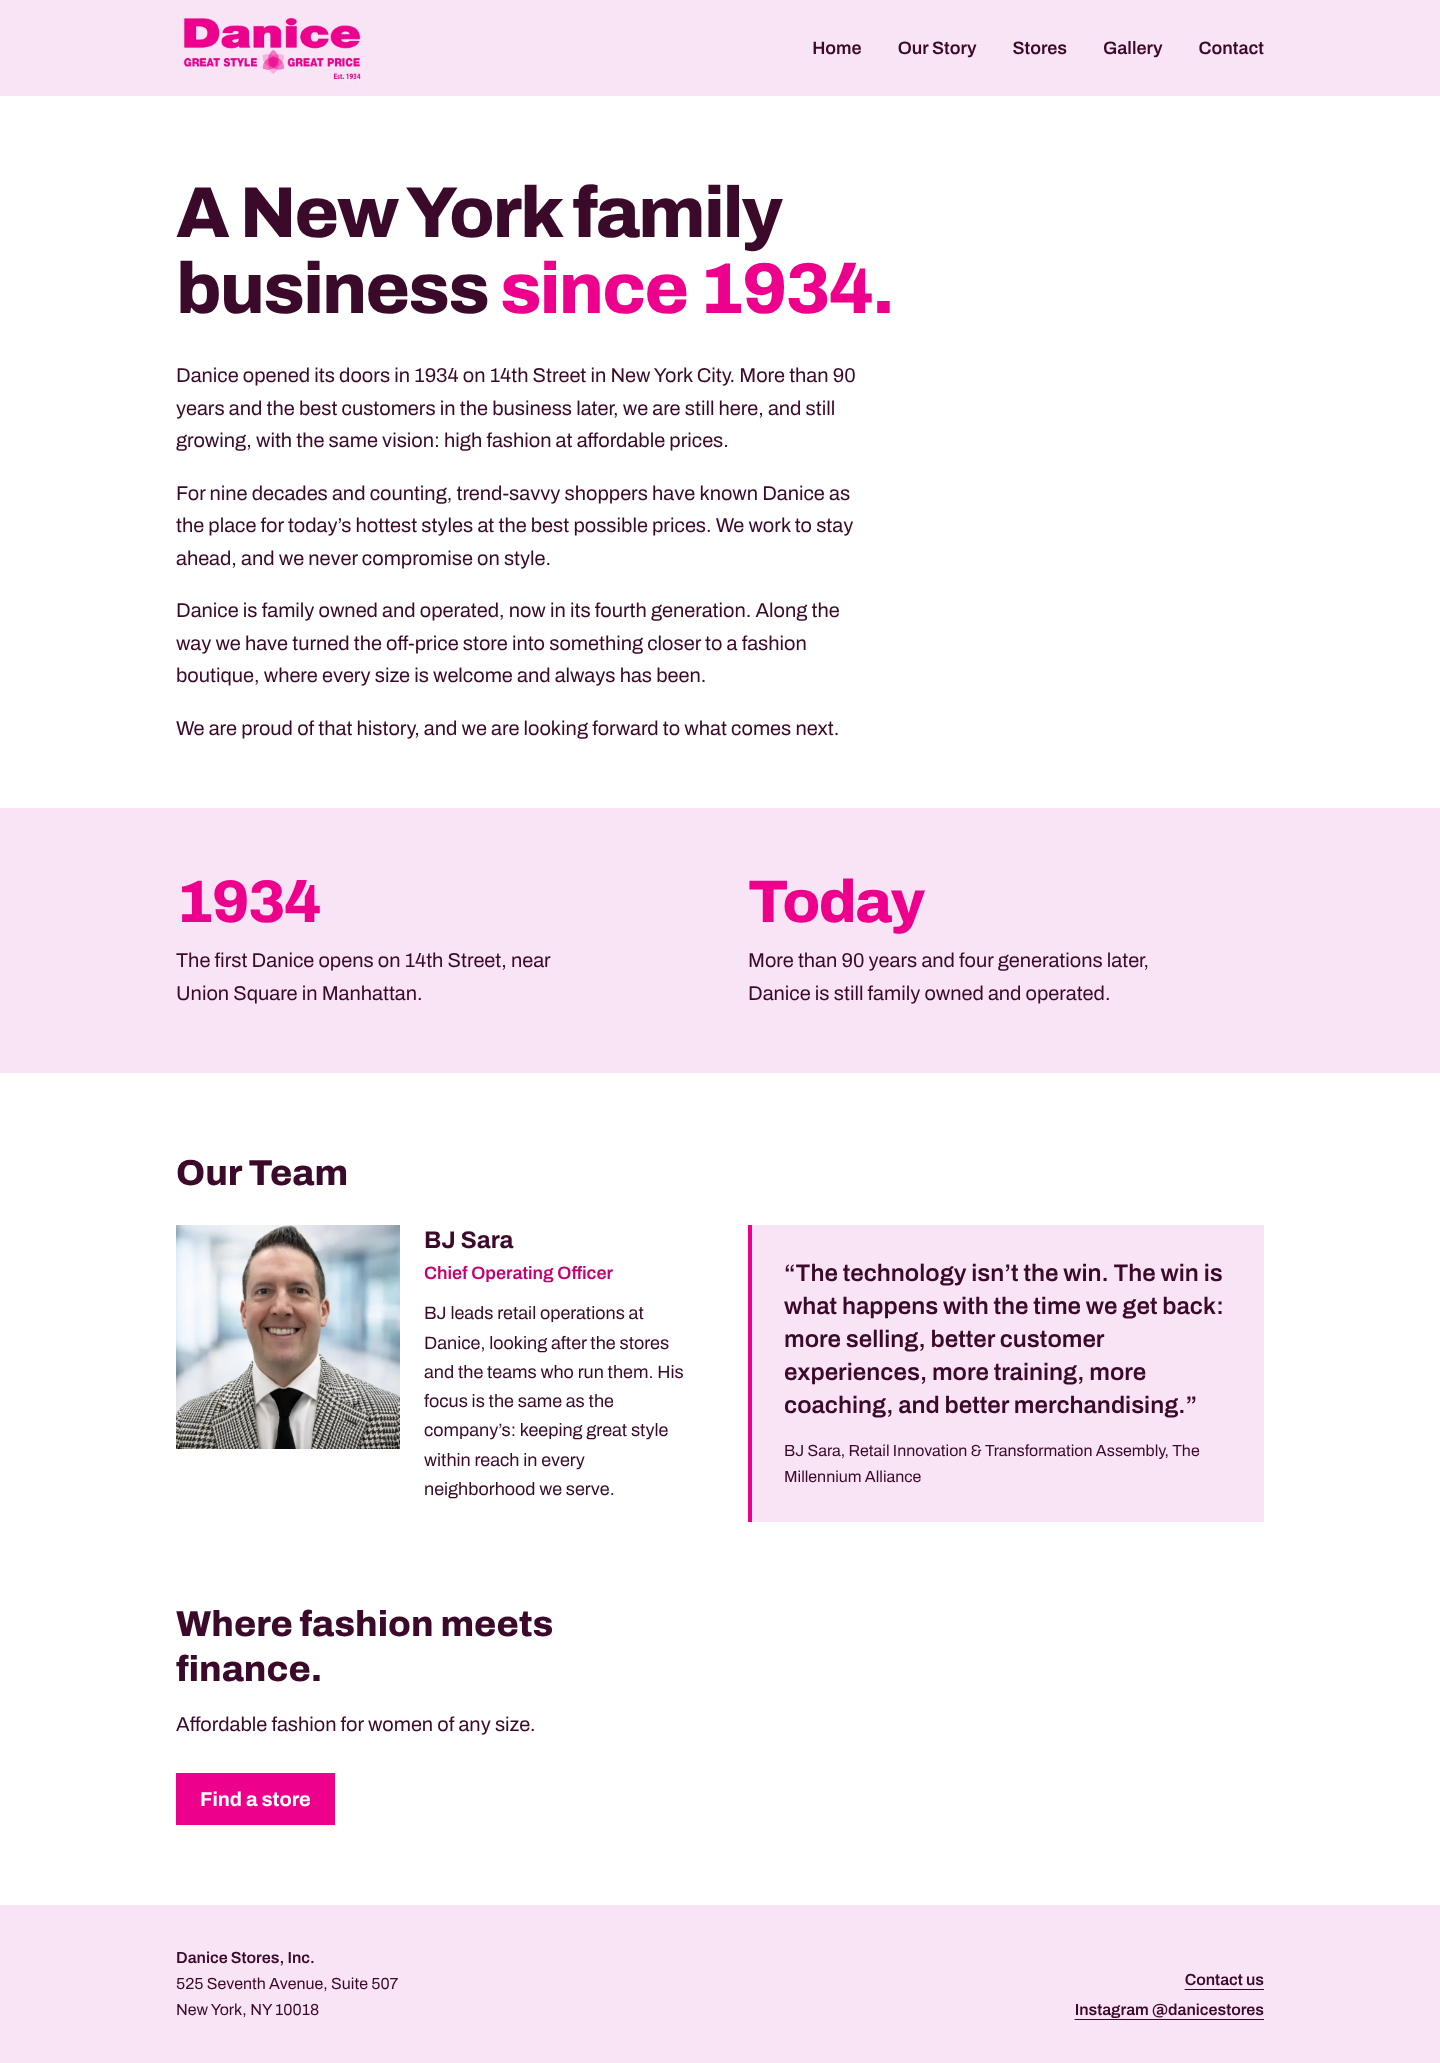
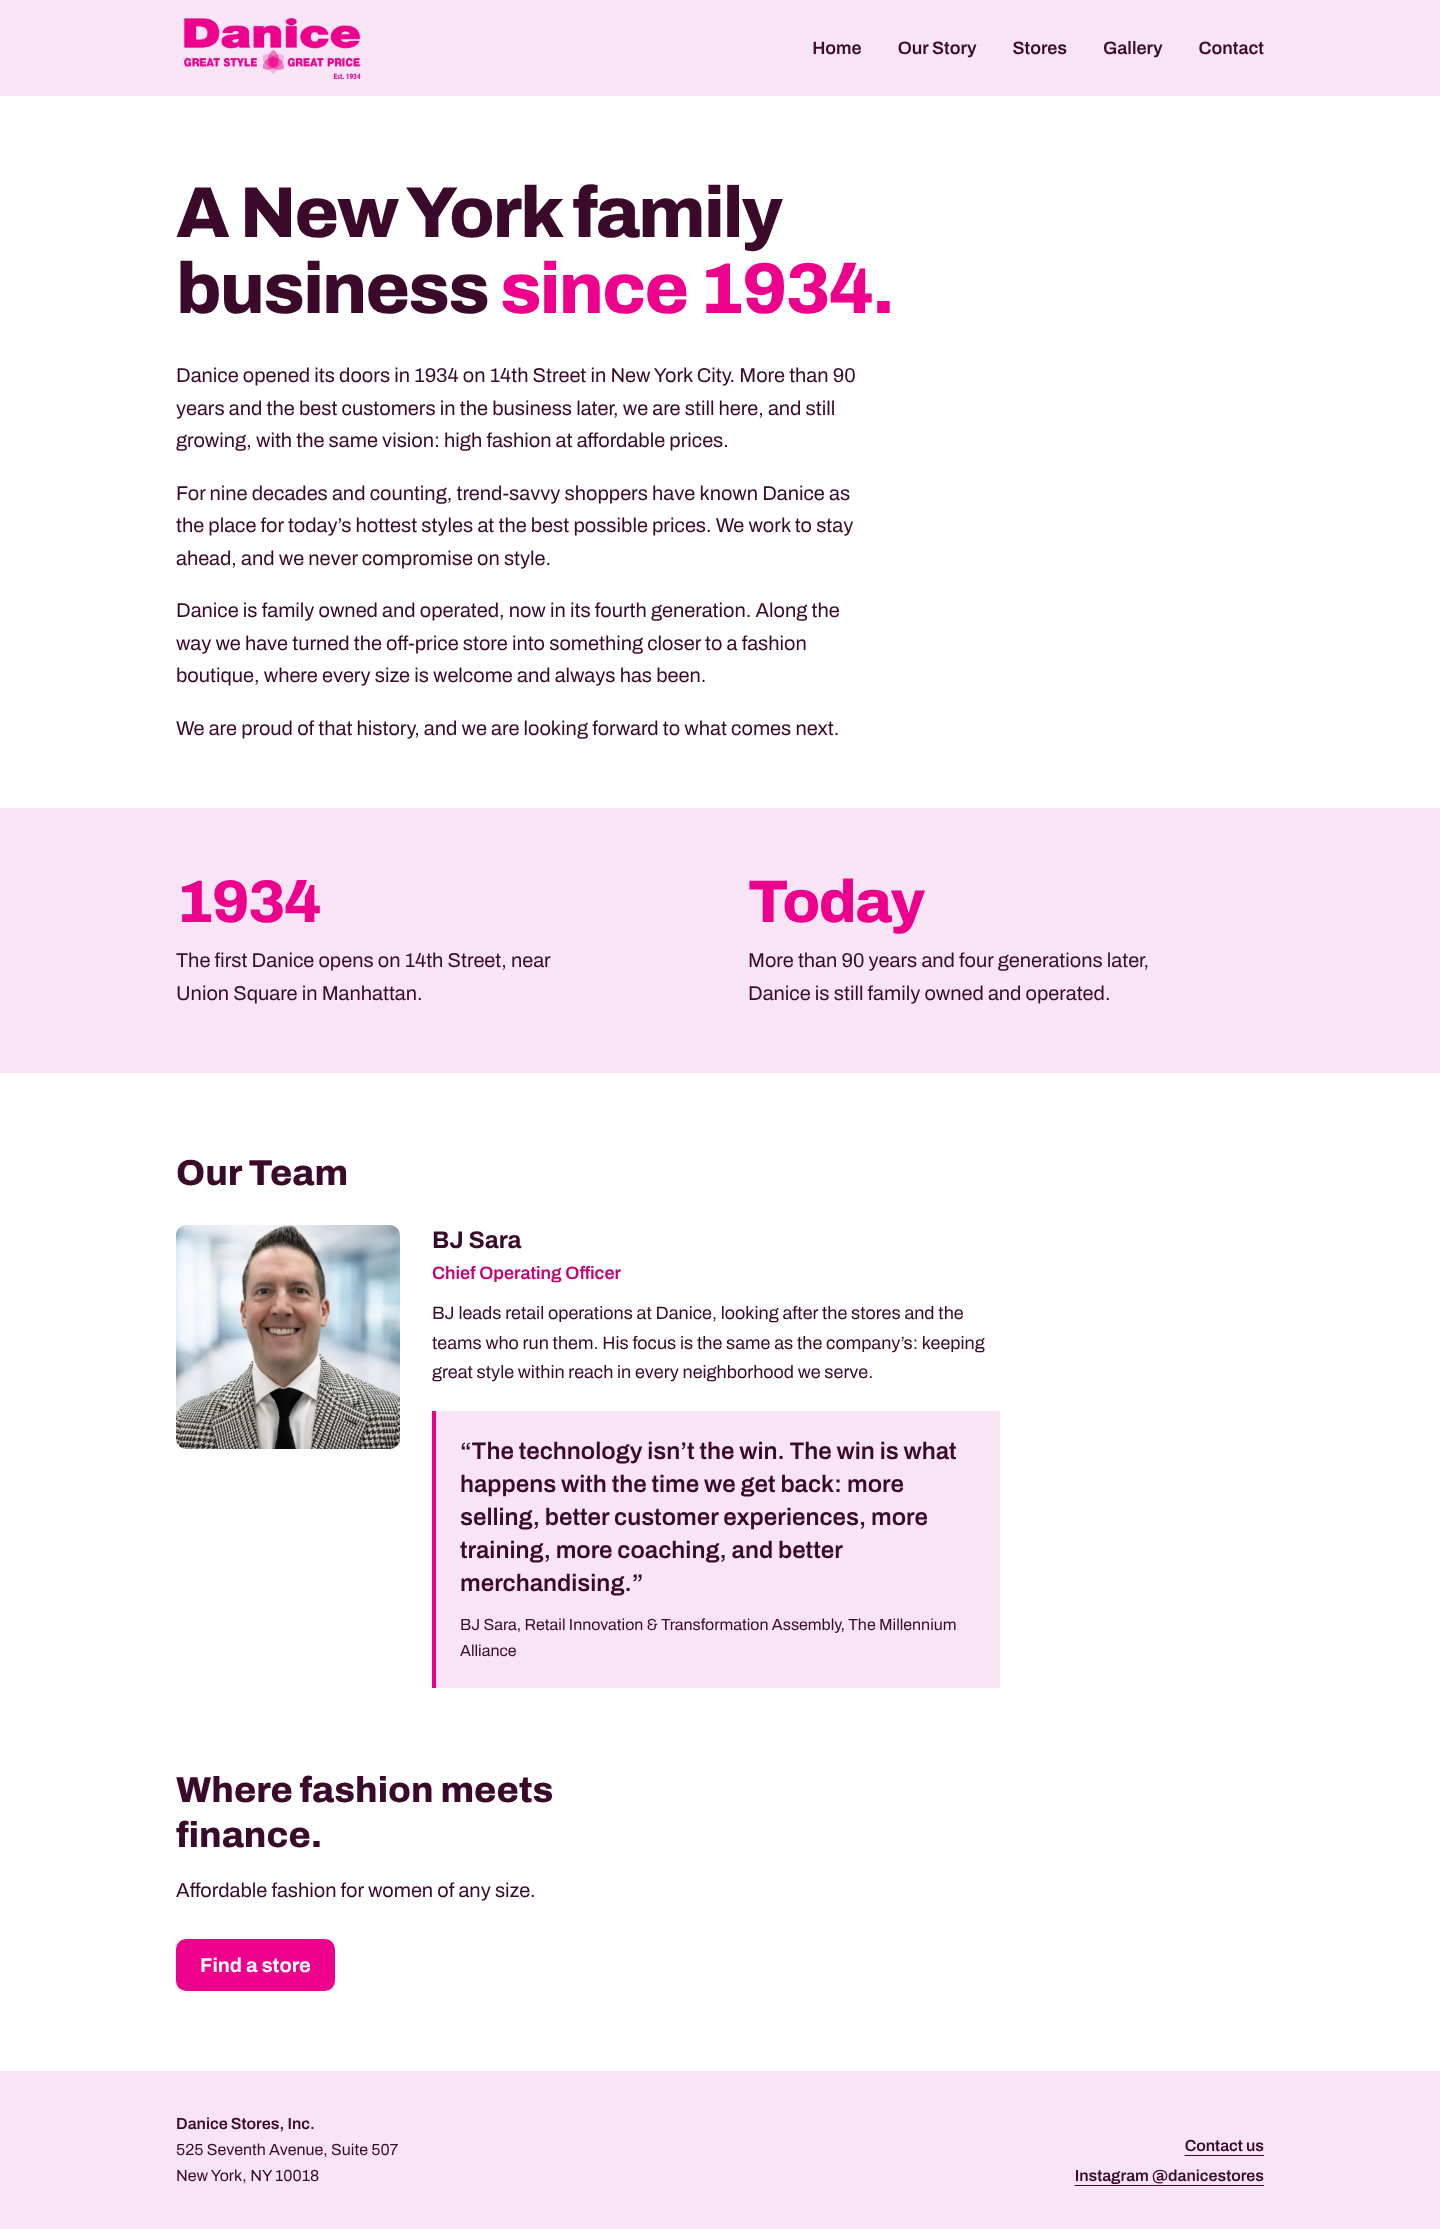
Move BJ's quote under his bio and round buttons and pictures
The team entry is now two columns (photo, then name, title, bio and
quote) instead of three. Buttons, the team photo and gallery photos get
10px corners.

Claude-Session: https://claude.ai/code/session_01GBwygx9tMhKkzG3j5ZdV8Z

Changed region(s): [[0.0, 0.0, 1.0, 0.9927], [0.75, 0.9617, 0.875, 0.9927]]

diff --git a/app/our-story/page.tsx b/app/our-story/page.tsx
@@ -82,37 +82,33 @@ export default function OurStory() {
           {company.team.map((person) => (
             <li
               key={person.name}
-              className="grid items-start gap-8 md:grid-cols-2 md:gap-14"
+              className="flex flex-col gap-6 sm:flex-row sm:gap-8"
             >
-              <div className="flex flex-col gap-5 sm:flex-row sm:gap-6">
-                <Image
-                  src={person.photo}
-                  alt={person.name}
-                  width={800}
-                  height={800}
-                  className="size-48 shrink-0 object-cover sm:size-56"
-                  sizes="224px"
-                />
-                <div>
-                  <h3 className="text-2xl leading-tight font-bold">
-                    {person.name}
-                  </h3>
-                  <p className="mt-1 text-lg font-semibold text-magenta-deep">
-                    {person.title}
-                  </p>
-                  <p className="mt-3 max-w-[48ch] text-lg leading-relaxed">
-                    {person.bio}
-                  </p>
-                </div>
+              <Image
+                src={person.photo}
+                alt={person.name}
+                width={800}
+                height={800}
+                className="size-48 shrink-0 rounded-[10px] object-cover sm:size-56"
+                sizes="224px"
+              />
+              <div className="max-w-[62ch]">
+                <h3 className="text-2xl leading-tight font-bold">
+                  {person.name}
+                </h3>
+                <p className="mt-1 text-lg font-semibold text-magenta-deep">
+                  {person.title}
+                </p>
+                <p className="mt-3 text-lg leading-relaxed">{person.bio}</p>
+                <figure className="mt-6 border-l-4 border-magenta bg-blush p-6">
+                  <blockquote className="text-xl leading-snug font-semibold sm:text-2xl sm:leading-snug">
+                    &ldquo;{person.quote.text}&rdquo;
+                  </blockquote>
+                  <figcaption className="mt-3 text-base leading-relaxed">
+                    {person.name}, {person.quote.source}
+                  </figcaption>
+                </figure>
               </div>
-              <figure className="border-l-4 border-magenta bg-blush p-6 sm:p-8">
-                <blockquote className="text-2xl leading-snug font-semibold">
-                  &ldquo;{person.quote.text}&rdquo;
-                </blockquote>
-                <figcaption className="mt-4 text-base leading-relaxed">
-                  {person.name}, {person.quote.source}
-                </figcaption>
-              </figure>
             </li>
           ))}
         </ul>

diff --git a/components/Button.tsx b/components/Button.tsx
@@ -2,7 +2,7 @@ import Link from "next/link";
 
 // 20px bold keeps white on magenta within large-text contrast.
 const className =
-  "inline-block bg-magenta px-6 py-3 text-xl font-bold text-white hover:bg-magenta-deep focus-visible:outline-3 focus-visible:outline-offset-3 focus-visible:outline-plum";
+  "inline-block rounded-[10px] bg-magenta px-6 py-3 text-xl font-bold text-white hover:bg-magenta-deep focus-visible:outline-3 focus-visible:outline-offset-3 focus-visible:outline-plum";
 
 export function Button({ href, children }: { href: string; children: React.ReactNode }) {
   return href.startsWith("/") ? (

diff --git a/app/contact/ContactForm.tsx b/app/contact/ContactForm.tsx
@@ -129,7 +129,7 @@ export function ContactForm() {
         <button
           type="submit"
           disabled={pending}
-          className="bg-magenta px-6 py-3 text-xl font-bold text-white hover:bg-magenta-deep focus-visible:outline-3 focus-visible:outline-offset-3 focus-visible:outline-plum disabled:bg-plum/50"
+          className="rounded-[10px] bg-magenta px-6 py-3 text-xl font-bold text-white hover:bg-magenta-deep focus-visible:outline-3 focus-visible:outline-offset-3 focus-visible:outline-plum disabled:bg-plum/50"
         >
           {pending ? "Sending" : "Send message"}
         </button>

diff --git a/app/gallery/page.tsx b/app/gallery/page.tsx
@@ -27,7 +27,7 @@ export default function Gallery() {
               width={photo.width}
               height={photo.height}
               sizes="(min-width: 1024px) 260px, (min-width: 640px) 30vw, 45vw"
-              className="h-auto w-full"
+              className="h-auto w-full rounded-[10px]"
             />
           </li>
         ))}
